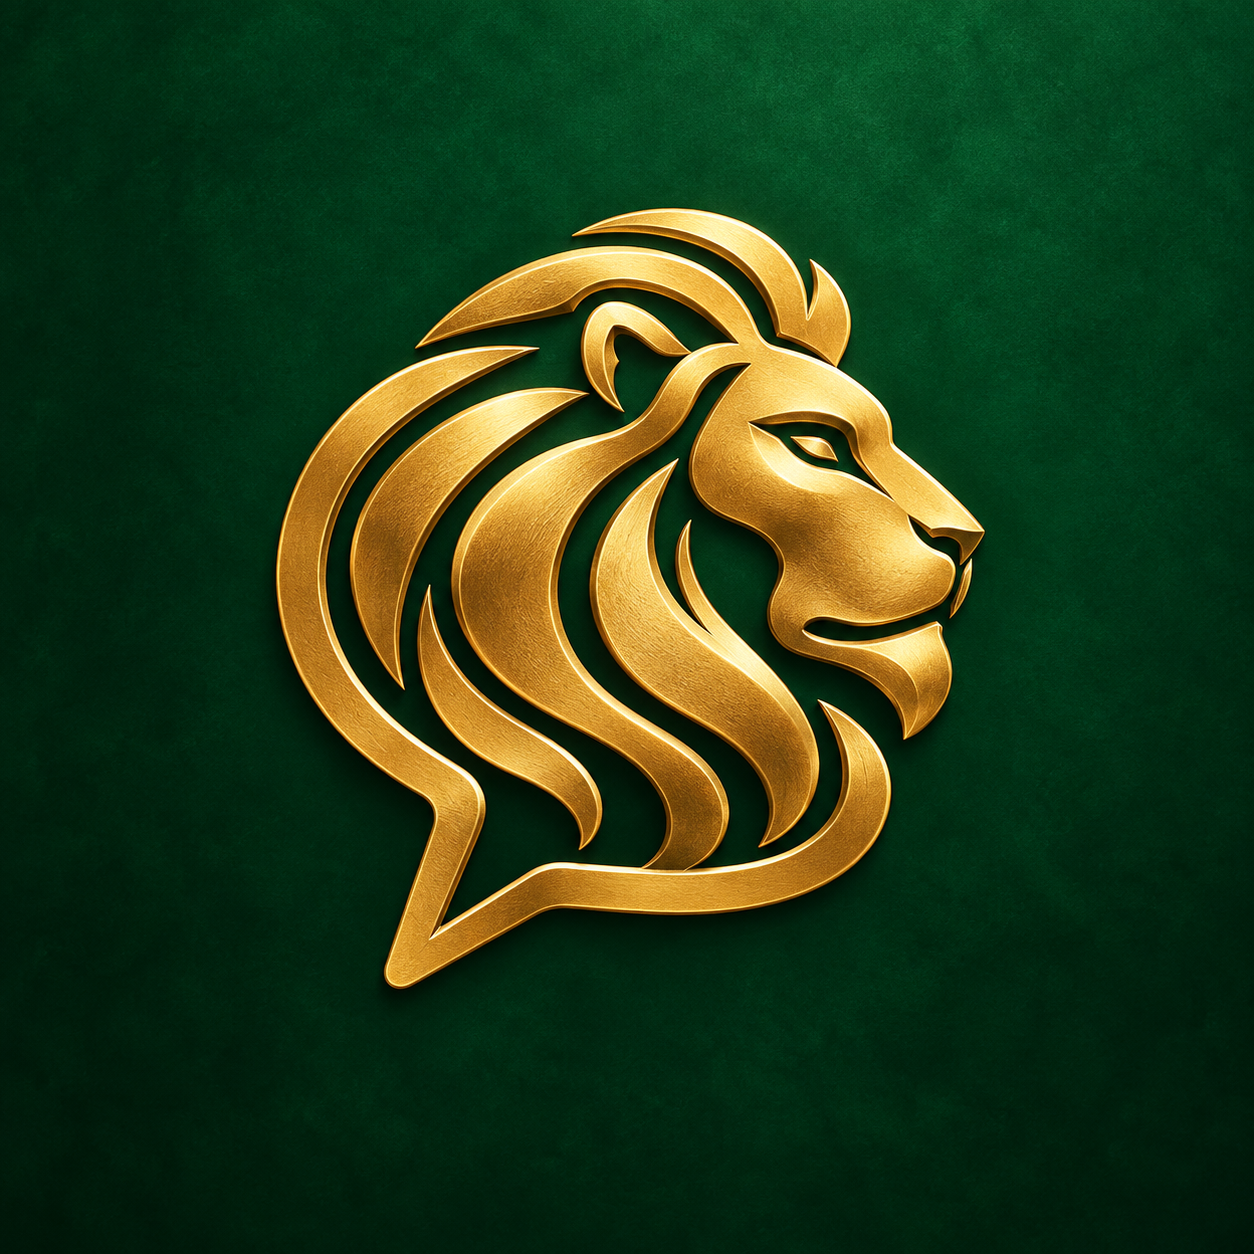
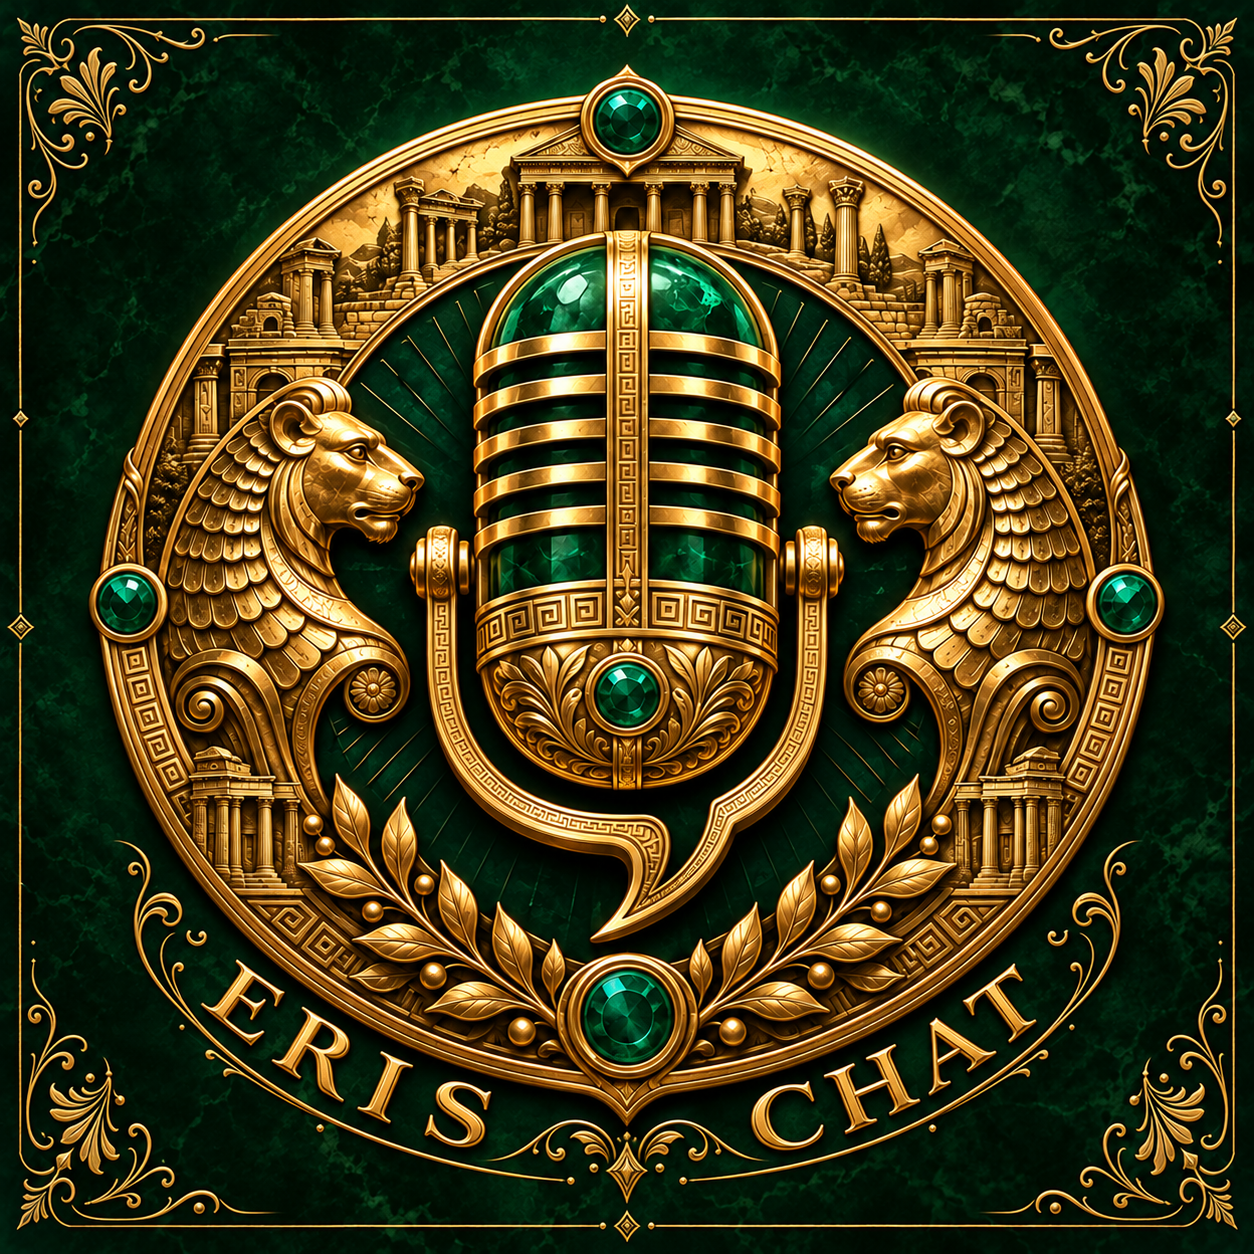
Onaylanan işlemeli ERIS CHAT armasını APK 1.8 simgesine uygula

diff --git a/android-native/branding/README.md b/android-native/branding/README.md
@@ -1,7 +1,9 @@
-# ErisChat Lidya APK simgesi
+# Onaylanan ErisChat Lidya arması — APK 1.8 / 9
 
-Asıl görsel `lidya-launcher-master.png`: yerleşik ImageGen ile üretilen 1254×1254 gerçek PNG. Kodla çizilmiş logo değildir. Kaynak görselin mekanik boyutlandırılmasıyla beş Android yoğunluğunda normal ve adaptive foreground PNG dosyaları oluşturuldu. Altın amblem adaptive ikonun merkezdeki güvenli dairesinde kalır; arka plan zümrüt. Manifest mevcut adaptive ikon tanımını kullanır. Sürüm 8 / 1.7.
+Kullanıcının onayladığı gerçek PNG kaynak: `lidya-launcher-master.png`. Altın-zümrüt mikrofon, çift aslan, Sardis işlemeleri, ince dış kenar süsleri ve alt ovalde solda ERIS, sağda CHAT. Yerleşik ImageGen ile üretildi; onaydan sonra yaratıcı değişiklik yapılmadı. Beş yoğunlukta 10 Android ikonu yalnızca mekanik boyutlandırmayla oluşturuldu.
 
-Üretim promptu: “Create a final production Android app launcher icon for ErisChat, a premium Turkish social chat app with the established Lidya (ancient Lydia) visual identity. Square 1024x1024 opaque full bleed deep emerald green background, subtly luminous polished dark emerald enamel, extremely subtle texture. A single bold sculpted warm gold emblem combining a dignified stylized Lydian lion head profile with a clearly recognizable speech bubble silhouette. Clean iconic silhouette, thick elegant gold forms, restrained premium embossed metal highlights, professionally art directed, simple enough to read at 48 pixels. The entire meaningful emblem must stay inside the central 60% of the square, plenty of plain emerald around all four sides for Android adaptive circle/squircle masks. Centered, balanced. No words, no letters, no initials, no crown, no coins, no casino elements, no phone mockup, no border frame, no rounded square outline, no external shadow, no white margin. Background must fill every pixel, not transparent. Deliver the standalone app icon artwork only.”
+Adaptive foreground, kaynak görseli 108dp katmanda %64 genişlikte ortalar. Ana arma ve yazı için maskeleme payı bırakılır; dış köşe bezemelerinin görünümü launcher'ın yuvarlak/kare maskesine bağlıdır. Normal PNG ikon tam onaylanan kareyi kullanır.
 
-Doğrulama: 10 PNG boyutu ve adaptive altın amblemin merkez güvenli dairesi kontrol edildi. Bash sözdizimi ve APK indirme akışı taklit GitHub yanıtlarıyla sınandı. APK bu ortamda derlenmedi. PR birleştikten sonra GitHub Actions mevcut imza anahtarıyla APK üretir. `scripts/termux-lidya-apk-kur.sh` ana dalın aynı commitine ait başarılı derlemeyi indirir; başarısız build veya değişmiş dalda eski APK kurulumunu açmaz. Kullanıcı Android kurulum ekranından uygulamayı günceller.
+Son düzenleme promptu: Preserve the central artwork exactly: emerald microphone, two gold lions, ancient Sardis architecture, circular gold medallion, gemstones, lighting and rich emerald marble palette. Add extremely fine delicate gold filigree engraving in outer margins, thin Lydian corner flourishes and a hairline perimeter ornament. At the bottom integrate gently oval curved gold inscription, exact uppercase ERIS on lower LEFT and CHAT on lower RIGHT, balanced engraved Roman serif capitals. No other text; preserve square full bleed composition.
+
+Sürüm 1.8 / versionCode 9; paket kimliği ve mevcut imza ayarları korunur. PR birleştirildiğinde android-native değişikliği GitHub APK derlemesini tetikler. Termux betiği aynı ana dal commitinin başarılı artifactını indirir ve manuel indirme bağlantısını gösterir. APK bu ortamda derlenmedi; GitHub Actions başarı durumu beklenmelidir. Kontroller: PNG boyutları, XML kaynakları, bash sözdizimi, yama bütünlüğü ve yerel kurulum simülasyonu.
